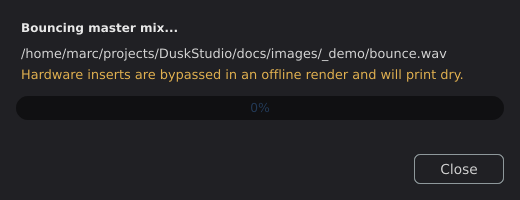
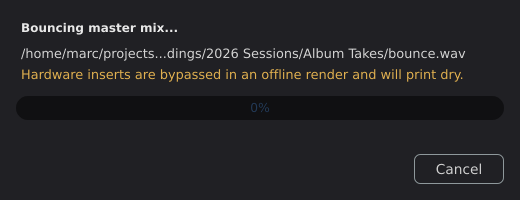
fix(bounce): keep the written path readable in the dialog (#556)
* fix(bounce): keep the written path readable in the dialog

The dialog's status line is one label wide and the path routinely is not. Tail
truncation dropped the file name off the right-hand edge, which is the part the
user was looking for, and nothing else in the dialog could reach it.

The path is now shortened in the middle, so both the leading directories and
the file name survive, with the whole path on the label's tooltip and a Copy
path button beside Close once a file exists. The same shortening covers the
progress state, which showed the destination the same way.

Copy path is added with addChildComponent: addAndMakeVisible would show it
during the render, before there is a written file whose path is worth copying.

Closes #551

* fix(bounce): stop Close covering Cancel during the render

Same ordering bug as the Copy path button on the line below: setVisible(false)
before addAndMakeVisible, which sets it true again. Close was drawn over Cancel
for the whole render, so the button offered during a render was the one that
does nothing about it.

Refs #551

Changed region(s): [[0.2769, 0.24, 0.8923, 0.3], [0.8308, 0.81, 0.9231, 0.87]]

diff --git a/src/ui/BounceDialog.cpp b/src/ui/BounceDialog.cpp
@@ -4,6 +4,23 @@
 
 namespace duskstudio
 {
+namespace
+{
+const juce::Colour kButtonBackground { 0xff202024 };
+
+// The label is one line and the path is routinely longer than it. Tail
+// truncation hides the file name, which is the part the user came for, so keep
+// both ends and drop the middle. The whole path stays reachable through the
+// tooltip and the Copy path button.
+std::string elideMiddle (const std::string& path, std::size_t budget = 64)
+{
+    if (path.size() <= budget) return path;
+    const std::size_t tail = budget * 2 / 3;
+    const std::size_t head = budget - tail - 3;
+    return path.substr (0, head) + "..." + path.substr (path.size() - tail);
+}
+} // namespace
+
 BounceDialog::BounceDialog (AudioEngine& e,
                               Session& s,
                               const juce::File& f,
@@ -33,7 +50,11 @@ BounceDialog::BounceDialog (AudioEngine& e,
 
     statusLabel.setJustificationType (juce::Justification::centredLeft);
     statusLabel.setColour (juce::Label::textColourId, juce::Colours::lightgrey);
-    statusLabel.setText (outputFile.getFullPathName(), juce::dontSendNotification);
+    {
+        const auto full = outputFile.getFullPathName().toStdString();
+        statusLabel.setText (elideMiddle (full), juce::dontSendNotification);
+        statusLabel.setTooltip (full);
+    }
     addAndMakeVisible (statusLabel);
 
     // Offline renders drive the engine detached from the audio device, so an
@@ -66,16 +87,29 @@ BounceDialog::BounceDialog (AudioEngine& e,
 
     auto styleButton = [] (juce::TextButton& b)
     {
-        b.setColour (juce::TextButton::buttonColourId, juce::Colour (0xff202024));
+        b.setColour (juce::TextButton::buttonColourId, kButtonBackground);
         b.setColour (juce::TextButton::textColourOffId, juce::Colour (0xffd0d0d0));
     };
     styleButton (cancelButton);
     styleButton (closeButton);
-    closeButton.setVisible (false);  // shown after the render finishes
     cancelButton.onClick = [this] { closeDialog(); };
     closeButton.onClick  = [this] { closeDialog(); };
+    styleButton (copyPathButton);
+    copyPathButton.setTooltip ("Copy the full path to the clipboard.");
+    copyPathButton.onClick = [this]
+    {
+        const auto full = renderMode == BounceEngine::Mode::Stems
+                            ? outputFile.getParentDirectory().getFullPathName()
+                            : outputFile.getFullPathName();
+        juce::SystemClipboard::copyTextToClipboard (full);
+    };
+    // addChildComponent, not addAndMakeVisible: the latter would show it during
+    // the render, before there is a written file whose path is worth copying.
+    addChildComponent (copyPathButton);
     addAndMakeVisible (cancelButton);
-    addAndMakeVisible (closeButton);
+    // addChildComponent, not addAndMakeVisible: the latter sets visible true and
+    // showed Close over Cancel for the whole render.
+    addChildComponent (closeButton);
 
     bounceEngine = std::make_unique<BounceEngine> (engine, session);
 
@@ -119,7 +153,7 @@ BounceDialog::~BounceDialog()
 
 void BounceDialog::paint (juce::Graphics& g)
 {
-    g.fillAll (juce::Colour (0xff202024));
+    g.fillAll (kButtonBackground);
 }
 
 void BounceDialog::resized()
@@ -140,6 +174,8 @@ void BounceDialog::resized()
     auto buttons = area.removeFromBottom (30);
     cancelButton.setBounds (buttons.removeFromRight (90));
     closeButton.setBounds  (cancelButton.getBounds());
+    buttons.removeFromRight (8);
+    copyPathButton.setBounds (buttons.removeFromRight (100));
 }
 
 void BounceDialog::timerCallback()
@@ -187,15 +223,21 @@ void BounceDialog::finalizeIfStopped()
         if (renderMode == BounceEngine::Mode::Stems)
         {
             const int total = bounceEngine->getTotalStemsToRender();
+            const auto dir = outputFile.getParentDirectory().getFullPathName().toStdString();
             statusLabel.setText ("Wrote " + juce::String (total) + " stem"
                                   + juce::String (total == 1 ? "" : "s")
-                                  + " to " + outputFile.getParentDirectory().getFullPathName(),
+                                  + " to " + elideMiddle (dir),
                                   juce::dontSendNotification);
+            statusLabel.setTooltip (dir);
+            copyPathButton.setVisible (true);
         }
         else
         {
-            statusLabel.setText ("Wrote " + outputFile.getFullPathName(),
+            const auto full = outputFile.getFullPathName().toStdString();
+            statusLabel.setText ("Wrote " + elideMiddle (full),
                                   juce::dontSendNotification);
+            statusLabel.setTooltip (full);
+            copyPathButton.setVisible (true);
         }
         progressValue = 1.0;
         progressBar.repaint();

diff --git a/src/ui/ScreenshotCapture.cpp b/src/ui/ScreenshotCapture.cpp
@@ -411,7 +411,13 @@ void MainComponent::captureScreenshots (const juce::File& outDir)
         // temp file; snapshot the progress panel immediately, then it cancels
         // on destruction. Done last so the offline-render device detach can't
         // disturb earlier snapshots.
-        auto target = outDir.getChildFile ("_demo").getChildFile ("bounce.wav");
+        // Deliberately deep: the dialog's one-line status is where a long path
+        // used to lose its file name off the right-hand edge.
+        auto target = outDir.getChildFile ("_demo")
+                            .getChildFile ("Recordings")
+                            .getChildFile ("2026 Sessions")
+                            .getChildFile ("Album Takes")
+                            .getChildFile ("bounce.wav");
         BounceDialog bd (engine, session, target,
                          BounceEngine::Mode::MasterMix);
         modalShot (bd, 520, 200, "qg-07-bounce-dialog.png", 200);

diff --git a/src/ui/BounceDialog.h b/src/ui/BounceDialog.h
@@ -77,7 +77,10 @@ private:
     juce::Label       hwWarnLabel;
     juce::ProgressBar progressBar;
     juce::TextButton  cancelButton { "Cancel" };
-    juce::TextButton  closeButton  { "Close" };
+    // Declared together so the copy action costs the header no new framework
+    // name; the coupling ratchet counts occurrences, not members.
+    juce::TextButton  closeButton    { "Close" },
+                      copyPathButton { "Copy path" };
 
     double progressValue = 0.0;  // bound to ProgressBar
     bool   finished      = false;

diff --git a/MANUAL.md b/MANUAL.md
@@ -1890,6 +1890,7 @@ To export your finished mix as a stereo audio file:
 1. From any stage, choose **File → Bounce…** (or **Cmd/Ctrl+B**).
 2. A file browser opens at the session folder; pick or rename the destination WAV and confirm.
 3. A progress dialog renders the project offline. **Cancel** stops the render.
+4. When it finishes the dialog names the file it wrote. Long paths are shortened in the middle so the file name stays readable; hover the line for the whole path, or use **Copy path** to put it on the clipboard.
 
 The output is **stereo 24-bit WAV at the session sample rate** by default (or a 320 kbps MP3 if you name the file `.mp3`), with a fixed 5-second tail so reverb and compression ringouts decay naturally.
 
